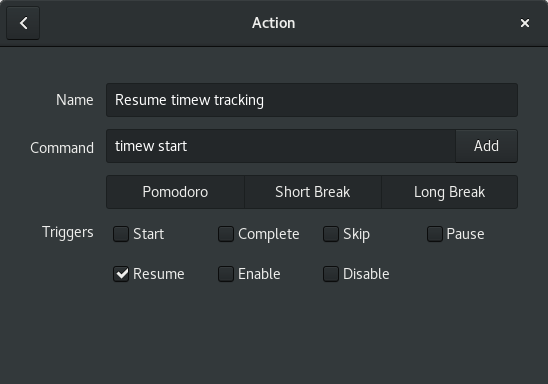
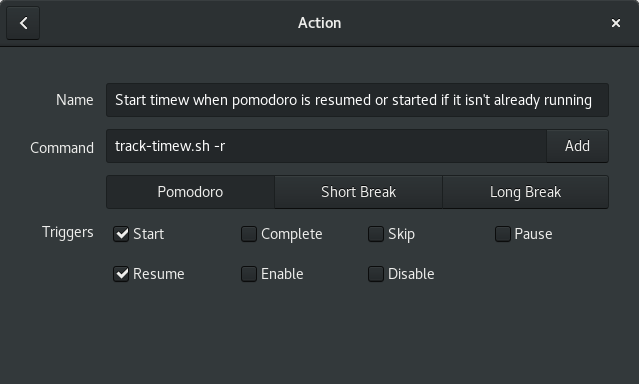
Updates to improve integration bits

diff --git a/content/20171225-managing-tasks-time-and-making-sure-one-takes-a-break-integrating-taskwarrior-timewarrior-and-gnome-pomodoro.rst b/content/20171225-managing-tasks-time-and-making-sure-one-takes-a-break-integrating-taskwarrior-timewarrior-and-gnome-pomodoro.rst
@@ -48,6 +48,10 @@ here <https://taskwarrior.org/docs/timewarrior/taskwarrior.html>`__. Each time
 a task is started, or stopped in Taskwarrior_, the hook calls Timewarrior_ to
 start or stop tracking the task too.
 
+Note: to ensure that this hook is run before the `Gnome Pomodoro`_ hook that we
+set up in the next section, please save the hook file as
+:code:`~/.task/hooks/on-modify.00-timewarrior`
+
 Gnome Pomodoro reminds us to take regular breaks
 -------------------------------------------------
 
@@ -90,7 +94,11 @@ for Timewarrior_:
 
     #!/usr/bin/env python2
     # API is here: https://taskwarrior.org/docs/hooks.html
-    # To be saved at ~/.task/hooks/on-modify.gnome-pomodoro
+    # To be saved at ~/.task/hooks/on-modify.01-gnome-pomodoro to ensure it is
+    # run after the timewarrior hook, which should be saved as
+    # ~/.task/hooks/on-modify.00-timewarrior
+    # Otherwise, this is run before which then runs the Gnome-Pomodoro actions
+    # things get quite messy!
     import json
     import os
     import sys
@@ -146,6 +154,81 @@ pauses the Pomodoro_:
 
 (If no tasks are active, Timewarrior_ doesn't do anything, so that case does
 not need to be handled separately.)
+
+There are certain `limitations to what commands can go in there
+<https://github.com/codito/gnome-pomodoro/issues/275#issuecomment-282494447>`__,
+so I've used a shell script to implement the required logic:
+
+.. code:: bash
+
+    #!/bin/bash
+    # save as ~/bin/track-timew.sh
+    # note that ~/bin/ must be in PATH
+
+    resume ()
+    {
+        timew || timew continue
+    }
+
+    pause ()
+    {
+        timew && timew stop
+    }
+
+    clean ()
+    {
+        for entry in $(timew summary :ids | grep -o '@.*' | sed -E 's/(^@[[:digit:]]+)([[:alpha:]|[:punct:]|[:space:]]+)/\1 /' | sed -E 's/[[:space:]]{2,}/ /' | cut -d ' ' -f 1,4 | grep -E '[[:digit:]]{0,2}:0[01]:..' | cut -d ' ' -f 1 | tr '\n' ' '); do timew delete "$entry"; done
+    }
+
+    usage ()
+    {
+        echo "$0: wrapper script around timewarrior to carry out common tasks"
+        echo "For use with Gnome-Pomodoro's action plugin"
+        echo
+        echo "Usage: $0 <option>"
+        echo
+        echo "OPTIONS:"
+        echo "-r    resume tracking of most recently tracked task"
+        echo "-p    pause tracking"
+        echo "-c    clean up short tasks (less than 2 minutes long)"
+    }
+
+    # check for options
+    if [ "$#" -eq 0 ]; then
+        usage
+        exit 1
+    fi
+
+    # parse options
+    while getopts "rpch" OPTION
+    do
+        case $OPTION in
+            r)
+                resume
+                exit 0
+                ;;
+            p)
+                pause
+                exit 0
+                ;;
+            c)
+                clean
+                exit 0
+                ;;
+            h)
+                usage
+                exit 1
+                ;;
+            ?)
+                usage
+                exit 1
+                ;;
+        esac
+    done
+
+
+The script is quite simple, and I hope, self-explanatory too. I'll leave
+interpretation of the :code:`clean` function to the reader ;)
 
 That's all there is to it. There must be other ways of doing the same thing,
 possibly with different tools too, but this system required least changes to my
